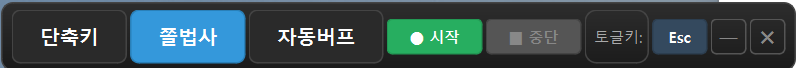
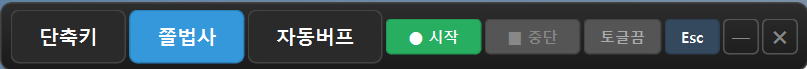
사용설명서: 쫄법사 탭 이미지/설명 업데이트 (토글켬/끔, 일시정지/중단 분리)

diff --git a/manual/index.html b/manual/index.html
@@ -157,9 +157,17 @@
 <p>1. 쫄법사 탭에서 <b>● 시작</b> 버튼을 클릭합니다.</p>
 <p>2. <b>3초 카운트다운</b> 메시지가 화면 중앙에 표시됩니다. 그 사이에 마우스를 캐릭터 위로 옮겨주세요.</p>
 <p>3. 카운트다운이 끝나면 즉시 좌클릭 반복이 시작됩니다.</p>
-<p>4. <b>■ 중단</b> 버튼 또는 <b>토글 단축키</b>로 중단/재개할 수 있습니다.</p>
-<h3>토글 단축키</h3>
-<p>"토글키:" 옆 버튼(기본값: <b>Esc</b>)을 클릭하면 토글 단축키를 변경할 수 있습니다.</p>
+<p>4. <b>■ 중단</b> 버튼을 누르면 완전히 종료됩니다.</p>
+<h3>토글 (일시정지 / 재개)</h3>
+<p>토글 단축키(기본값: <b>Esc</b>)를 누르면 클릭을 일시정지/재개합니다.</p>
+<table>
+    <tr><th>상태</th><th>토글켬/끔</th><th>중단 버튼</th><th>클릭 발동</th></tr>
+    <tr><td>시작</td><td>토글켬 (초록)</td><td>빨간색 활성</td><td>O</td></tr>
+    <tr><td>토글 끔 (일시정지)</td><td>토글끔 (회색)</td><td>빨간색 유지</td><td>X</td></tr>
+    <tr><td>토글 켬 (재개)</td><td>토글켬 (초록)</td><td>빨간색 유지</td><td>O</td></tr>
+    <tr><td>중단 (완전 종료)</td><td>토글끔</td><td>비활성</td><td>X</td></tr>
+</table>
+<p>토글 단축키를 변경하려면 <b>Esc</b> 버튼을 클릭하고 원하는 키를 입력합니다.</p>
 <div class="tip">※ 쫄법사 기능은 대상 게임 창이 활성화된 상태에서만 클릭이 발동됩니다.</div>
 
 <!-- 2-3. 자동버프 탭 -->
